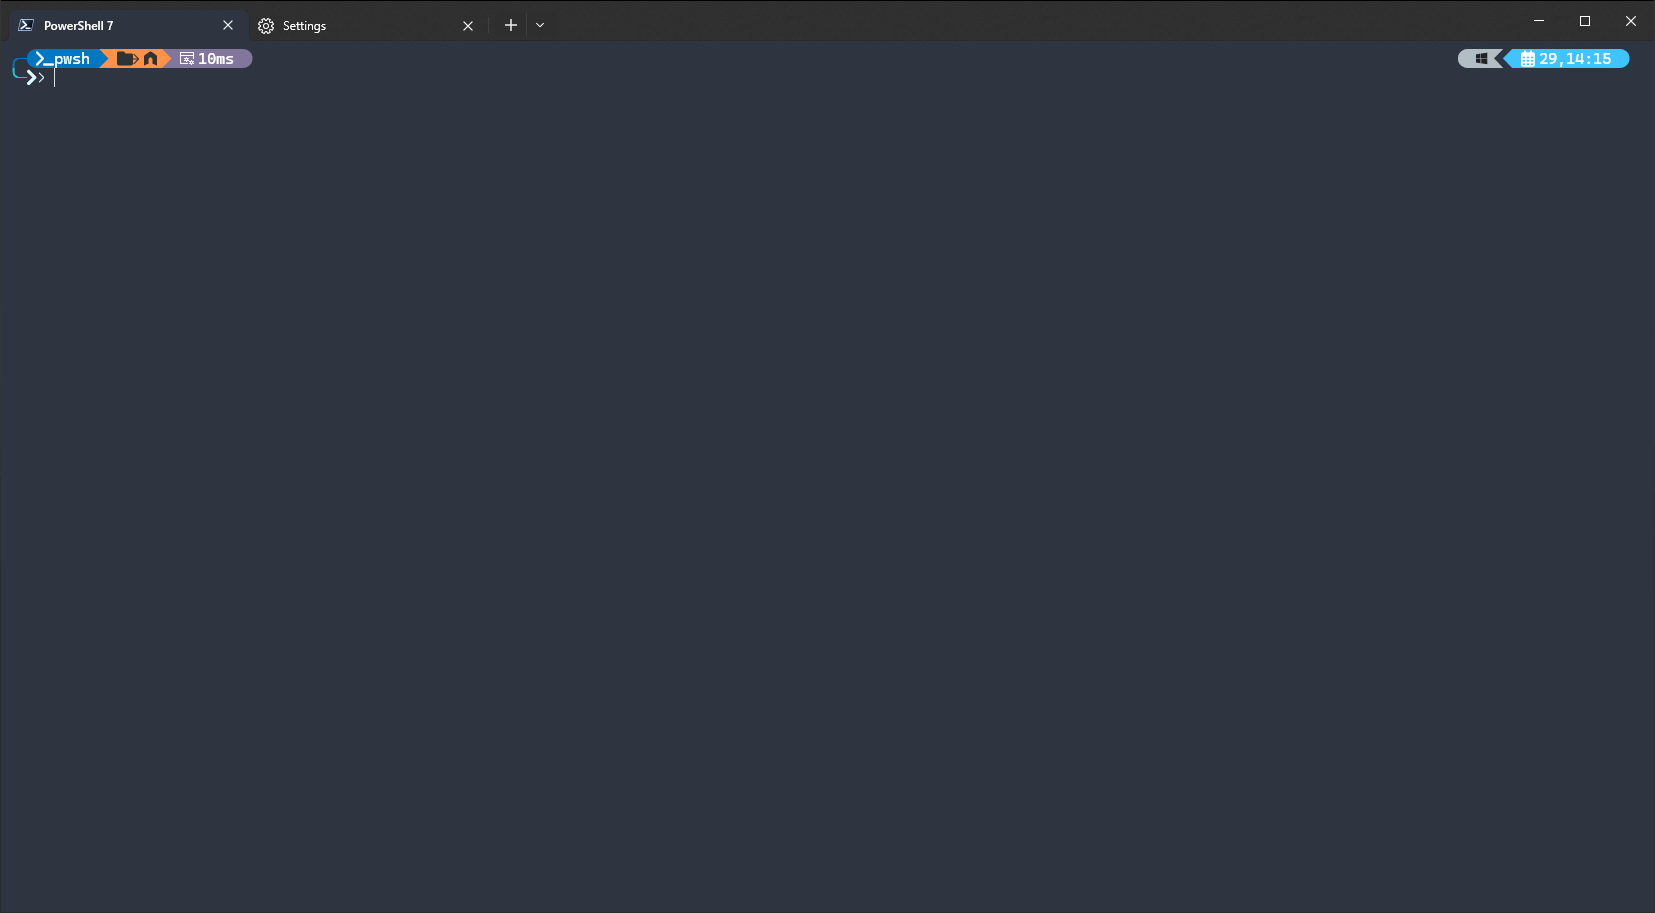
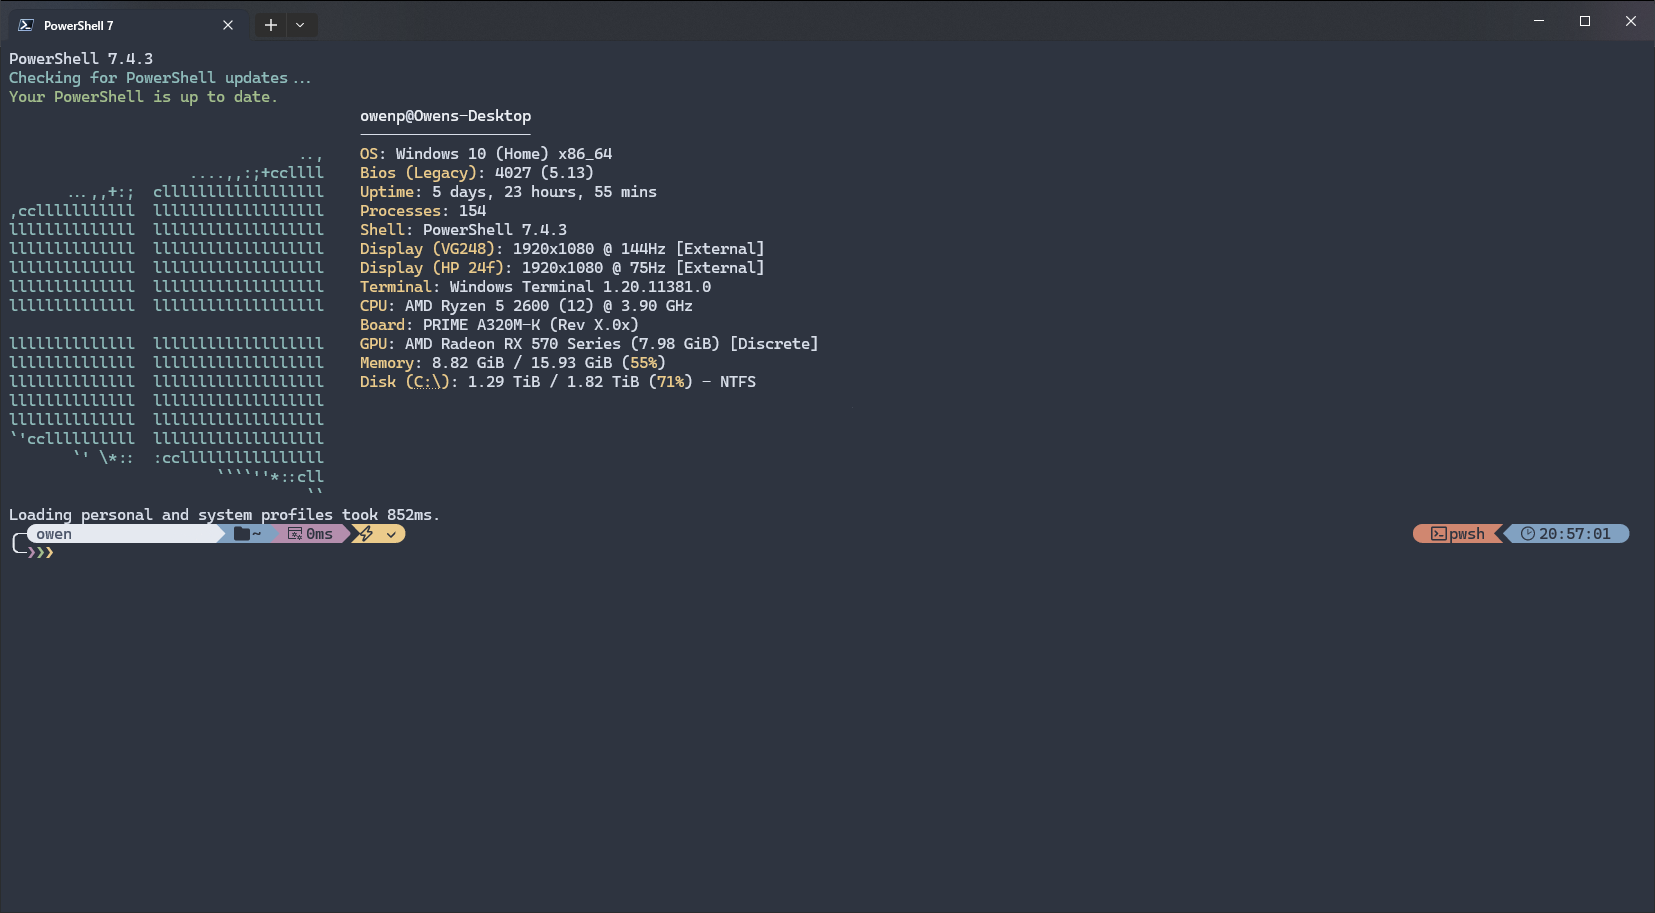
Updated README.md screenshot

diff --git a/README.MD b/README.MD
@@ -37,3 +37,5 @@ settings.json can be found from the Windows Terminal Settings (Ctrl + ,).
 ## Screenshots
 
 ![Screenshot 1](screenshots/screenshot1.png)
+
+With my [PowerShell Profile](https://github.com/owen-3456/powershell-profile)
